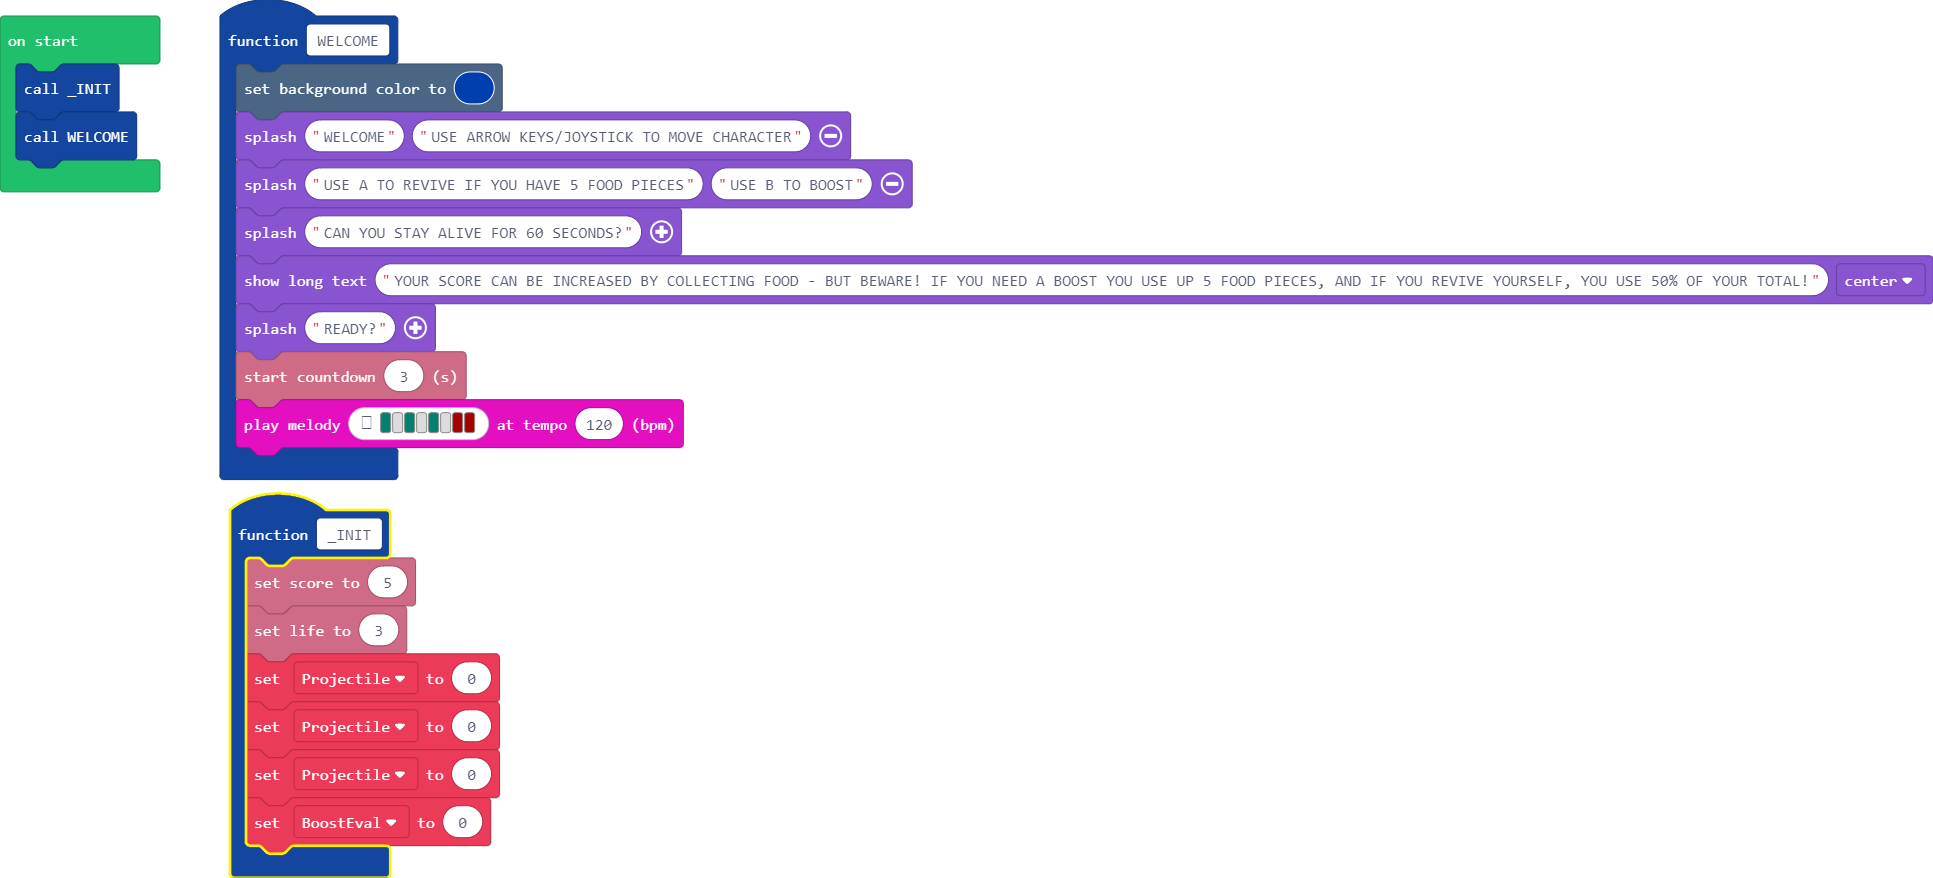
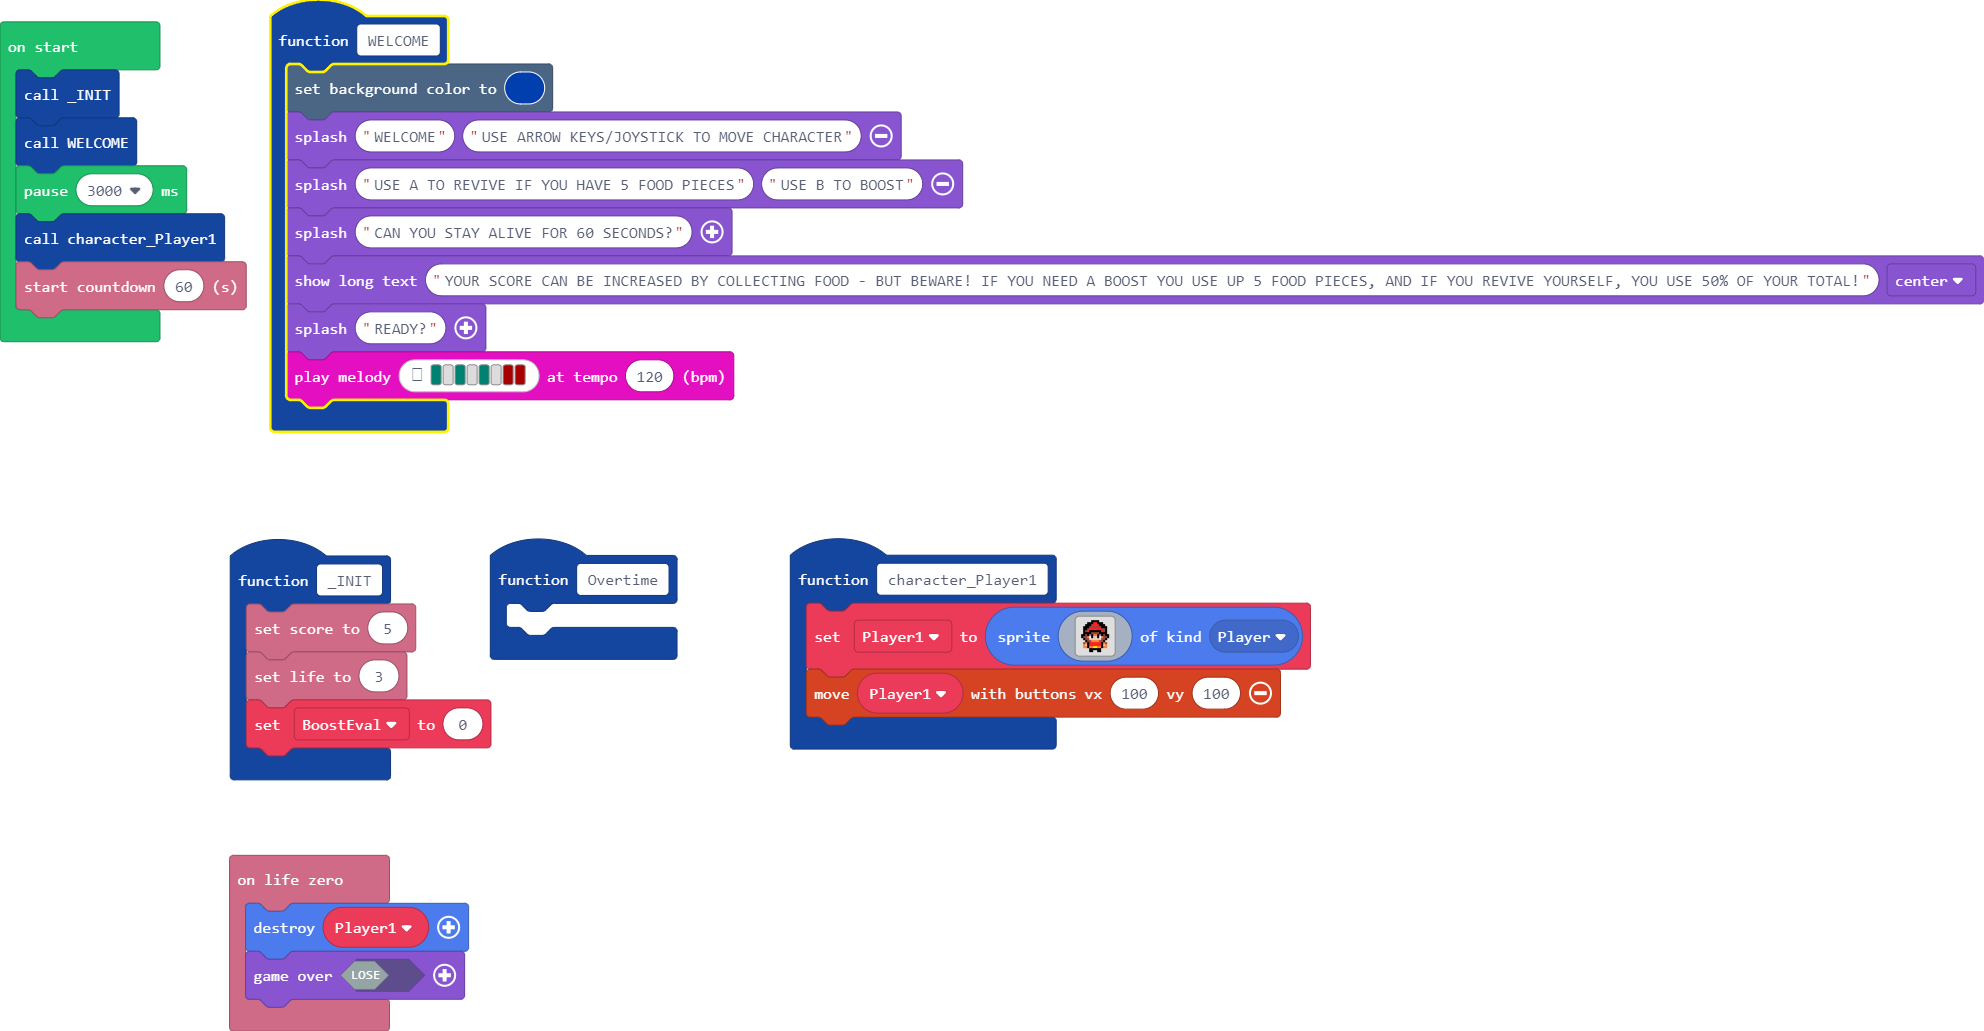
Character Initialised

Changed region(s): [[0.0, 0.0, 1.0, 1.0], [0.3725, 0.5228, 0.6829, 0.738]]

diff --git a/main.ts b/main.ts
@@ -1,3 +1,27 @@
+function Overtime () {
+	
+}
+function character_Player1 () {
+    Player1 = sprites.create(img`
+. . . . . . f f f f . . . . . . 
+. . . . f f f 2 2 f f f . . . . 
+. . . f f f 2 2 2 2 f f f . . . 
+. . f f f e e e e e e f f f . . 
+. . f f e 2 2 2 2 2 2 e e f . . 
+. . f e 2 f f f f f f 2 e f . . 
+. . f f f f e e e e f f f f . . 
+. f f e f b f 4 4 f b f e f f . 
+. f e e 4 1 f d d f 1 4 e e f . 
+. . f e e d d d d d d e e f . . 
+. . . f e e 4 4 4 4 e e f . . . 
+. . e 4 f 2 2 2 2 2 2 f 4 e . . 
+. . 4 d f 2 2 2 2 2 2 f d 4 . . 
+. . 4 4 f 4 4 5 5 4 4 f 4 4 . . 
+. . . . . f f f f f f . . . . . 
+. . . . . f f . . f f . . . . . 
+`, SpriteKind.Player)
+    controller.moveSprite(Player1, 100, 100)
+}
 function WELCOME () {
     scene.setBackgroundColor(8)
     game.splash("WELCOME", "USE ARROW KEYS/JOYSTICK TO MOVE CHARACTER")
@@ -5,18 +29,21 @@ function WELCOME () {
     game.splash("CAN YOU STAY ALIVE FOR 60 SECONDS?")
     game.showLongText("YOUR SCORE CAN BE INCREASED BY COLLECTING FOOD - BUT BEWARE! IF YOU NEED A BOOST YOU USE UP 5 FOOD PIECES, AND IF YOU REVIVE YOURSELF, YOU USE 50% OF YOUR TOTAL!", DialogLayout.Center)
     game.splash("READY?")
-    info.startCountdown(3)
     music.playMelody("F - F - F - C5 C5 ", 120)
 }
+info.onLifeZero(function () {
+    Player1.destroy()
+    game.over(false)
+})
 function _INIT () {
     info.setScore(5)
     info.setLife(3)
-    Projectile = 0
-    Projectile = 0
-    Projectile = 0
     BoostEval = 0
 }
 let BoostEval = 0
-let Projectile = 0
+let Player1: Sprite = null
 _INIT()
 WELCOME()
+pause(3000)
+character_Player1()
+info.startCountdown(60)
